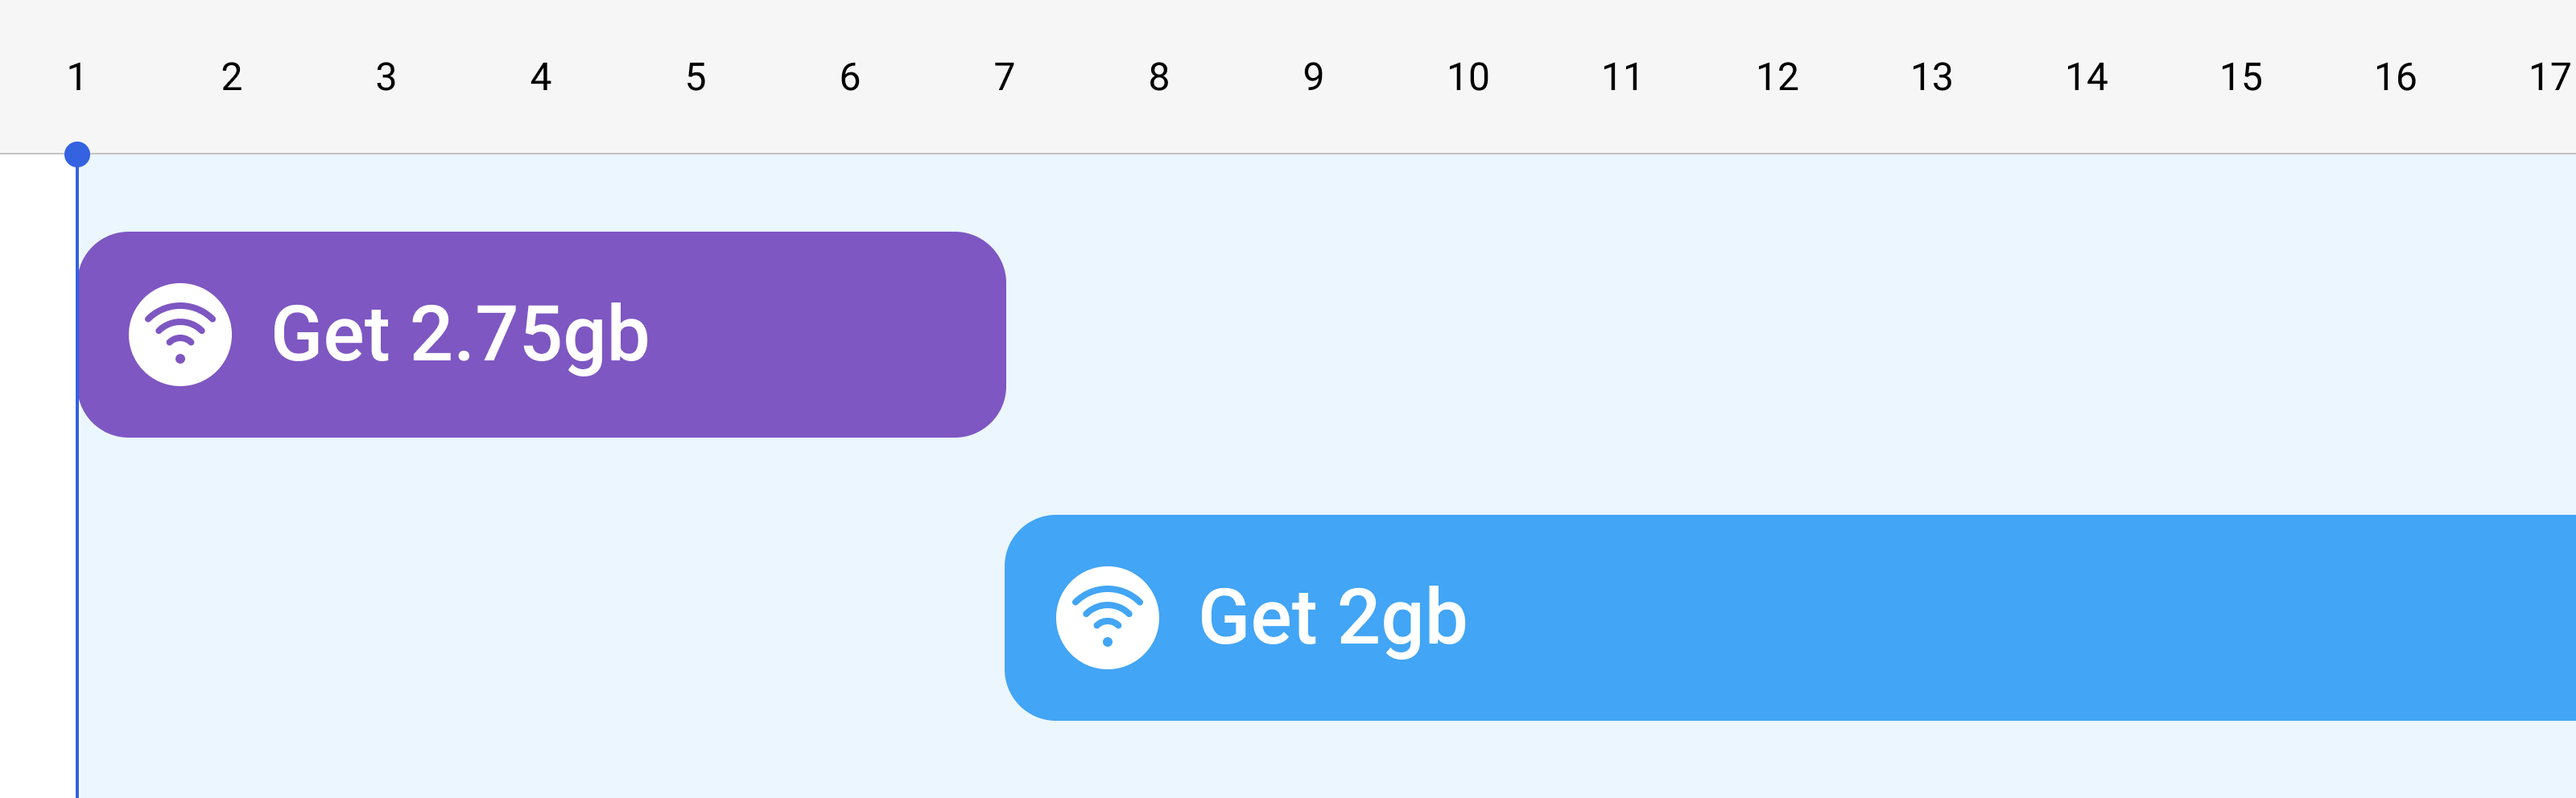
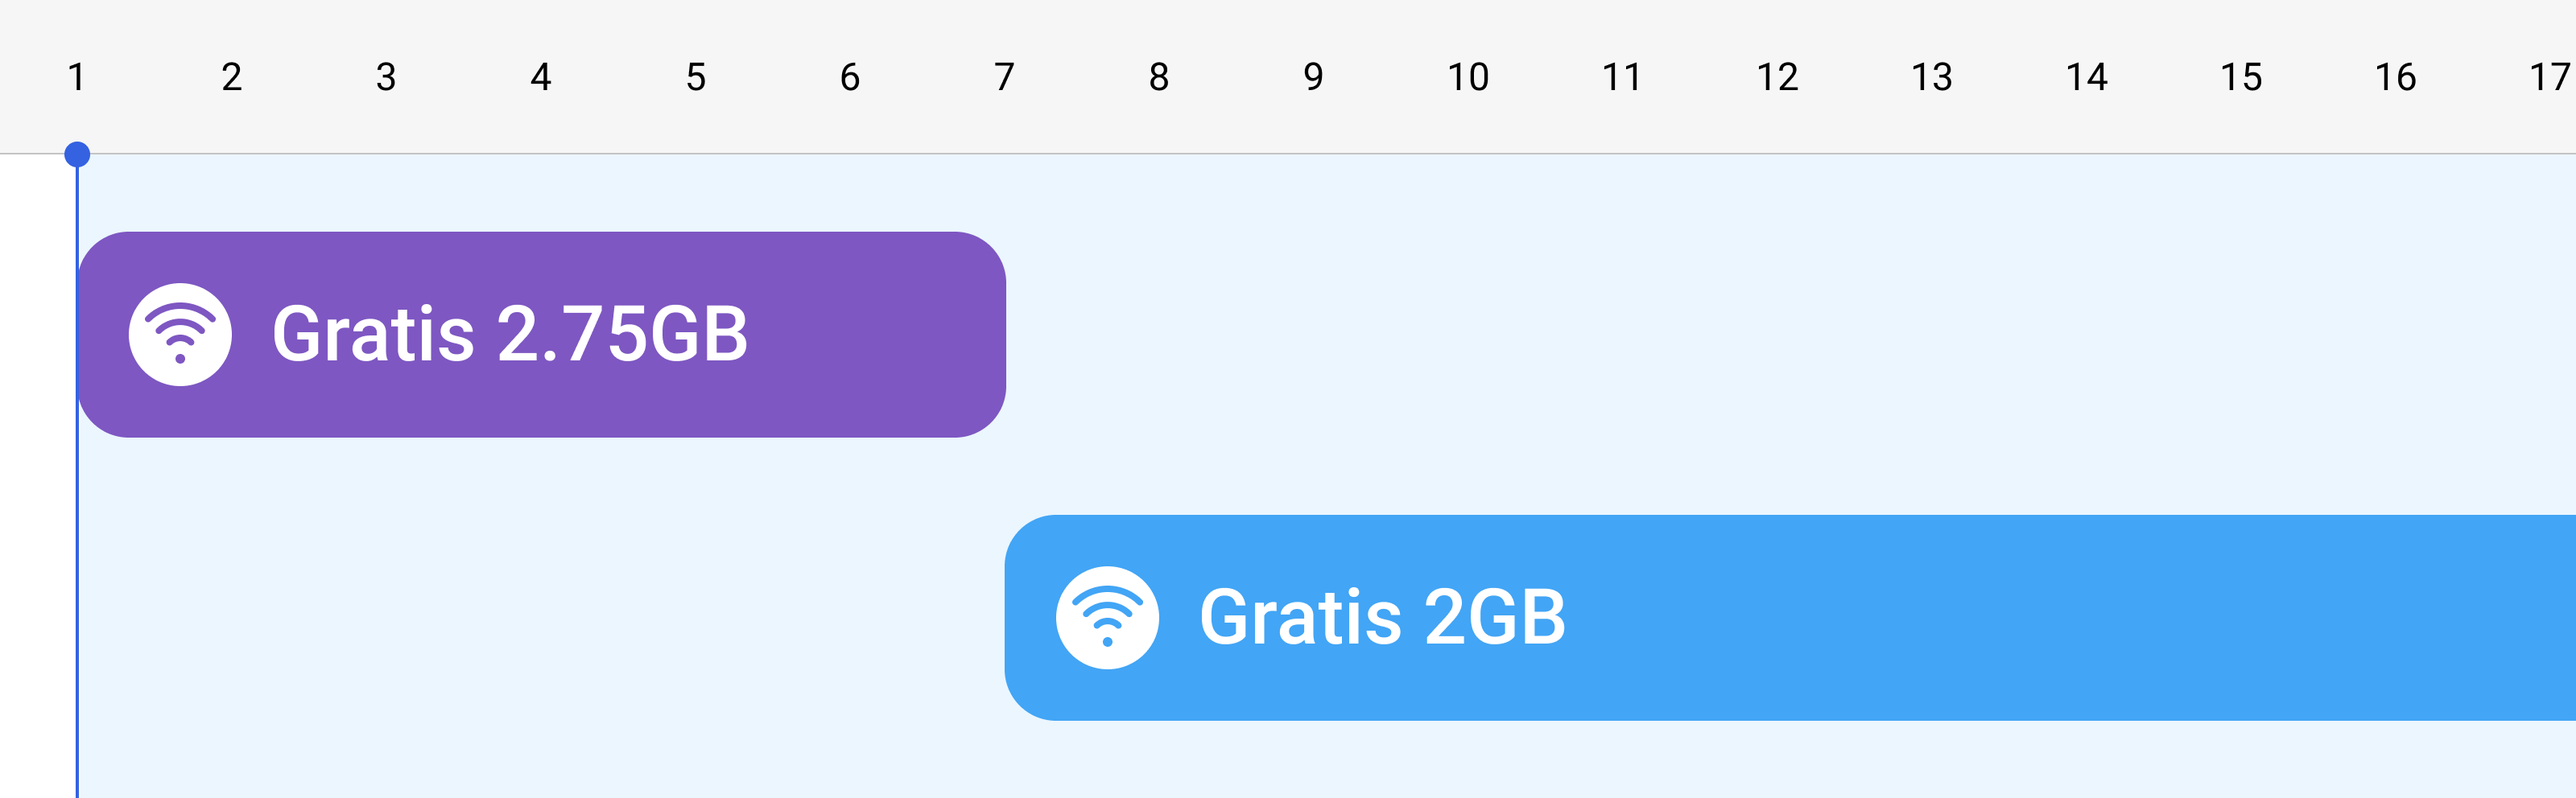
update

Changed region(s): [[0.125, 0.375, 0.3125, 0.4688], [0.4688, 0.7188, 0.625, 0.8438]]

diff --git a/bagikuota.html b/bagikuota.html
@@ -42,17 +42,17 @@
           <div class="col-12 col-md-10 col-lg-8 text-center">
             
             <h6 class="text-uppercase font-weight-bold text-white">
-              Limited to first 2000 installs only
+              Tersedia hanya untuk 2000 install saja
             </h6>
 
             <!-- Heading -->
             <h1 class="display-2 font-weight-bold text-white">
-              Get 2GB data quota top up every month
+              Dapatkan 2GB kuota gratis setiap bulan
             </h1>
 
             <!-- Text -->
             <p class="lead text-white mb-8">
-              Why? Run out app and help us crawl the web like Google (to power Proxycurl)
+              Kok bisa? Jalankan aplikasi dan bantu kami crawl website seperti Google (untuk membantu Proxycurl)
             </p>
 
             <!-- Button -->
@@ -62,7 +62,7 @@
 
             <!-- Button -->
             <a href="#!" class="btn btn-white-soft shadow lift mb-4">
-              Join Whatsapp Group
+              Gabung Grup Whatsapp
             </a>
 
           </div>
@@ -89,7 +89,7 @@
 
             <!-- Heading -->
             <h1 class="font-weight-bold pb-6 mb-6 text-center">
-              How to install BagiKuota App
+              Bagaimana cara install BagiKuota App
             </h1>           
 
           </div>
@@ -110,10 +110,10 @@
                 <!-- Text -->
                 <p class="text-center">
                   <span class="badge badge-pill badge-primary-soft mb-3">
-                    <span class="h6 text-uppercase">Step 1</span>
+                    <span class="h6 text-uppercase">Langkah pertama</span>
                   </span>
                   <br>
-                  Download the APK you want to install
+                  Download BagiKuota apk yang akan diinstall
                 </p>
 
               </div>
@@ -136,10 +136,10 @@
                 <!-- Text -->
                 <p class="text-center">
                   <span class="badge badge-pill badge-primary-soft mb-3">
-                    <span class="h6 text-uppercase">Step 2</span>
+                    <span class="h6 text-uppercase">Langkah kedua</span>
                   </span>
-                  <br>                  
-                  Navigate to your phone settings menu then to the security settings. Enable the Install from Unknown Sources option
+                  <br>
+                  Masuk ke settingan smartphone kamu, kemudian arahkan ke pengaturan keamanan. Ijinkan install aplikasi dari "Sumber Tidak Dikenal"
                 </p>
 
               </div>
@@ -162,10 +162,10 @@
                 <!-- Text -->
                 <p class="text-center">
                   <span class="badge badge-pill badge-primary-soft mb-3">
-                    <span class="h6 text-uppercase">Step 3</span>
+                    <span class="h6 text-uppercase">Langkah ketiga</span>
                   </span>
                   <br>
-                  Use a file browser and navigate to your download folder
+                  Gunakan berkas dari browser dan arahkan ke folder download
                 </p>
 
               </div>
@@ -188,10 +188,10 @@
                 <!-- Text -->
                 <p class="text-center">
                   <span class="badge badge-pill badge-primary-soft mb-3">
-                    <span class="h6 text-uppercase">Step 4</span>
+                    <span class="h6 text-uppercase">Langkah terakhir</span>
                   </span>
                   <br>
-                  The app should safely install
+                  Aplikasi siap untuk dijalankan
                 </p>
 
               </div>
@@ -219,7 +219,7 @@
         <div class="row justify-content-center">
 
           <div class="col-12">
-            <h1 class="display-3 text-center mb-6">30 days reward</h1>
+            <h1 class="display-3 text-center mb-6">Dapatkan kuota gratis setiap 30 hari</h1>
 
             <div class="col-12 mb-4">
               <div class="img img-fluid rounded mb-4">
@@ -229,14 +229,14 @@
           </div>
 
           <p class="text-center text-muted">
-            Sign up and get 2.75GB and then 2GB / 7 day <br>
+            Daftar sekarang dan dapatkan 2.75GB, kemudian 2GB / 7 hari <br>
           </p>          
 
         </div> <!-- / .row -->
 
             <!-- Button -->
             <a href="#!" class="btn btn-primary shadow lift mt-4">
-              Join Whatsapp Group
+              Gabung Grup Whatsapp
             </a>        
 
       </div> <!-- / .container -->
@@ -257,22 +257,22 @@
             
             <!-- Badge -->
             <span class="badge badge-pill badge-primary-soft mb-3">
-              <span class="h6 text-uppercase">LIMITED TO FIRST 2000 INSTALLS ONLY</span>
+              <span class="h6 text-uppercase">TERSEDIA HANYA UNTUK 2000 INSTALL SAJA</span>
             </span>
 
             <!-- Heading -->
             <h2>
-              Why are we <br>
-              <span class="text-primary">rewarding free top ups?</span>
+              Mengapa kami mau untuk<br>
+              <span class="text-primary">memberikan kuota gratis secara cuma-cuma?</span>
             </h2>
 
             <!-- Text -->
             <p class="font-size-lg text-gray-700 mb-4">
-              When you run the app, you help power our Proxycurl service which help businesses crawl Linkedin accounts. We share profit with you by paying for your top-ups.
+              Ketika kamu menjalankan BagiKuota app, kamu membantu kami menjalankan Proxycurl yang mana membantu perusahaan untuk crawling akun-akun yang ada di Linkedin. Kami membagi keuntungan yang kami peroleh dengan memberikan kuota gratis kepada kamu.
             </p>
 
             <p class="font-size-lg text-muted mb-6 mb-md-6">
-              What are you waiting for?
+              Apalagi yang kamu tunggu?
             </p>
 
             <!-- Button -->
@@ -282,7 +282,7 @@
 
             <!-- Button -->
             <a href="#!" class="btn btn-primary-soft lift mb-4">
-              Join Whatsapp Group
+              Gabung Grup Whatsapp
             </a>            
 
           </div>
